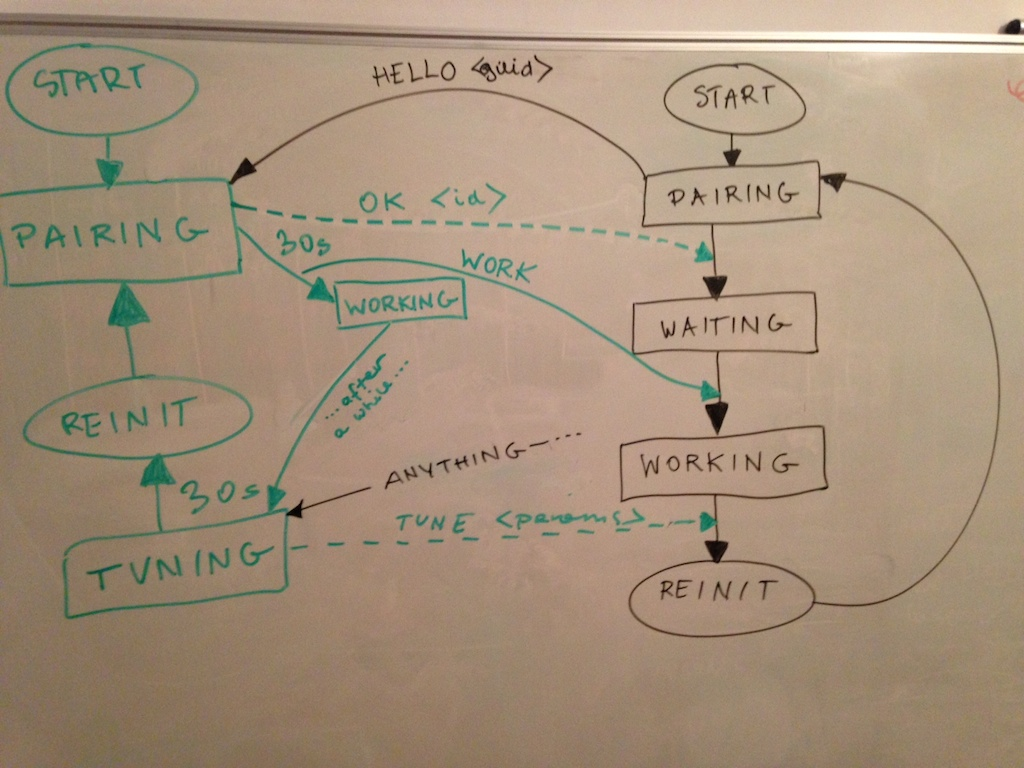
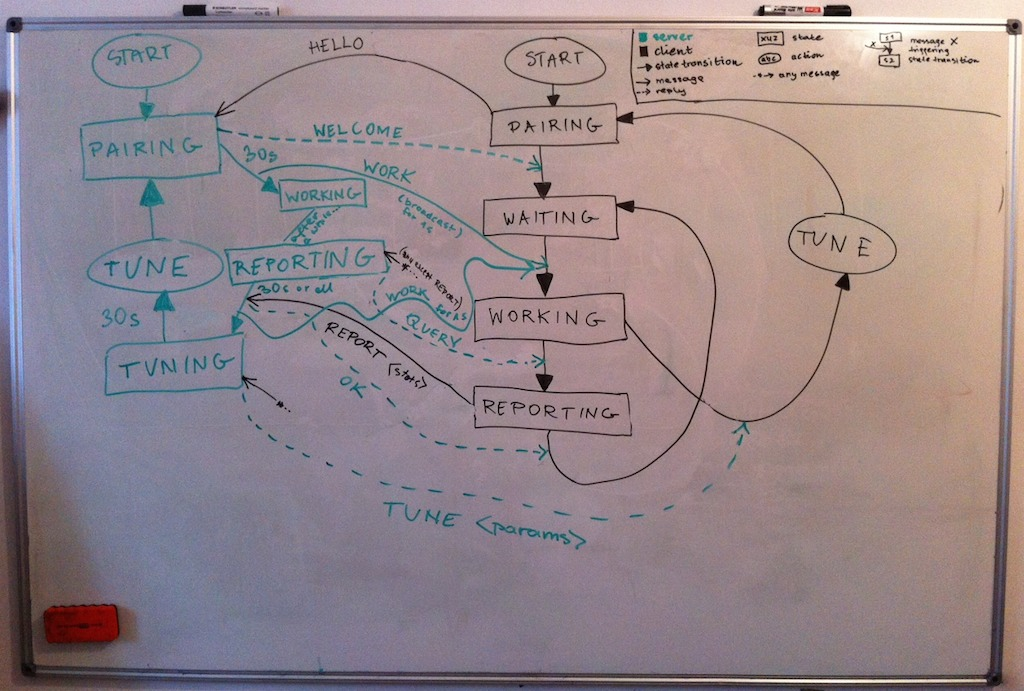
Add headless stats: server queries clients for reports and prints them to serial (comma-separated); address, scenario#, etc.

diff --git a/server/server.cpp b/server/server.cpp
@@ -44,7 +44,8 @@ enum State
 {
   PAIRING,
   TUNING,
-  WORKING
+  WORKING,
+  REPORTING
 };
 
 State theState;
@@ -56,12 +57,16 @@ const unsigned long PAIRING_PERIOD = 10 * 1000;
 unsigned long thePairingStartedAt;
 
 // How long to wait before switching to TUNING state to change the transmission parameters.
-const unsigned long TUNE_AFTER = 60L * 1000L;     
+const unsigned long WORK_PERIOD = 10L * 1000L;     
 unsigned long theWorkingStartAt;
 
 // Milliseconds to wait for devices to tune in before switching to PAIRING state.
 const unsigned long TUNE_FOR = 10L * 1000L;
 unsigned long theTuningStartAt;
+
+// Maximum time to wait for reports from clients.
+const unsigned long MAX_REPORTING_TIME = 30L * 1000L;
+unsigned long theReportingStartAt;
 
 ////////////////////////////////////////////////////////////////////////////////
 
@@ -81,6 +86,22 @@ bool addPairedDevice(uint8_t& address)
   return true;
 }
 
+void broadcast(const Message::Type& type)
+{
+  // The commented out code below sends to each individual device. 
+  // The current one uses broadcasts repeated for approx. 1s.
+  
+  theMessage.type = type;
+  theMessage.repeatedlyBroadcast(manager, 1000);  
+
+  // theMessage.type = Message::WORK;
+  // for (int i = 0; i < thePairedDeviceCount; ++i)
+  // {
+  //   theMessage.sendThrough(manager, thePairedDevices[i]); // TODO: What if it fails due to a temporary eror?
+  //   // No reply is expected.
+  // }
+}
+
 ////////////////////////////////////////////////////////////////////////////////
 
 void startPairing()
@@ -97,21 +118,18 @@ void startWorking()
   Serial.print(thePairedDeviceCount);
   Serial.println(")");
 
-  // The code below sends to each individual device. The current one uses broadcast.
+  broadcast(Message::WORK);
 
-  theMessage.type = Message::WORK;
-
-  theMessage.repeatedlyBroadcast(manager, 1000);
-  
-  // theMessage.type = Message::WORK;
-  // for (int i = 0; i < thePairedDeviceCount; ++i)
-  // {
-  //   theMessage.sendThrough(manager, thePairedDevices[i]); // TODO: What if it fails due to a temporary eror?
-  //   // No reply is expected.
-  // }
   theState = WORKING;
   theWorkingStartAt = millis();
   printStatus("Working...");
+}
+
+void startReporting()
+{
+  theState = REPORTING;
+  theReportingStartAt = millis();
+  printStatus("Reporting...");
 }
 
 void startTuning()
@@ -173,11 +191,11 @@ void onPairing()
 void onWorking()
 {  
   // Reply to PING messages with PONG and with ERROR message to anything else.
-  // After TUNE_AFTER period, switch to TUNING state.
+  // After WORK_PERIOD period, switch to REPORTING state.
   
-  if (millis() - theWorkingStartAt > TUNE_AFTER)
+  if (millis() - theWorkingStartAt > WORK_PERIOD)
   {
-    startTuning();
+    startReporting();
     return;
   }
   
@@ -202,6 +220,71 @@ void onWorking()
   }
 
   maybePrintStatus("Working...");
+}
+
+void handleReport(const Message::Address& from, const Message::Data::Report& report)
+{
+  Message::Data::TuningParams tuningParams;
+  applyCurrentScenario(tuningParams);
+  Serial.print(tuningParams.channel);
+  Serial.print(",");
+  Serial.print(tuningParams.dataRate);
+  Serial.print(",");
+  Serial.print(tuningParams.power);
+  Serial.print(",");
+
+  Serial.print(from);
+  Serial.print(",");
+  Serial.print(report.numTotal);
+  Serial.print(",");
+  Serial.print(report.numSuccess);
+  Serial.print(",");
+  Serial.print(report.numReply);
+  Serial.print(",");
+
+  Serial.print(report.avgPingTime);
+  Serial.print(",");
+  Serial.print(report.minPingTime);
+  Serial.print(",");
+  Serial.print(report.maxPingTime);
+  
+  Serial.println();
+}
+
+// Handle REPORTING state.
+void onReporting()
+{  
+  // Reply to PING messages with PONG and with ERROR message to anything else.
+  // After MAX_REPORTING_TIME period, switch to TUNING state.
+  
+  // TODO: Switch as soon as all paired devices send in their reports.
+  if (millis() - theReportingStartAt > MAX_REPORTING_TIME) 
+  {
+    broadcast(Message::WORK);
+    startTuning();
+    return;
+  }
+  
+  if (manager.available())
+  {
+    Message::Address from;
+    if (theMessage.receiveThrough(manager, &from))
+    {
+      if (Message::REPORT == theMessage.type)
+      {
+        handleReport(from, theMessage.data.report);
+        theMessage.type = Message::OK;
+        theMessage.sendThrough(manager, from);
+      }
+      else
+      {
+        theMessage.type = Message::QUERY;
+        theMessage.sendThrough(manager, from);
+      }
+    }
+  }
+
+  maybePrintStatus("Reporting...");
 }
 
 // Handle TUNING state.
@@ -239,7 +322,7 @@ void onTuning()
     if (theMessage.receiveThrough(manager, &from))
     {
       theMessage.type = Message::TUNE;
-      applyCurrentScenario(theMessage);
+      applyCurrentScenario(theMessage.data.tuningParams);
       theMessage.sendThrough(manager, from);
     }
   }
@@ -281,6 +364,9 @@ void loop()
       break;
     case TUNING:
       onTuning();
+      break;
+    case REPORTING:
+      onReporting();
       break;
     default:
       Serial.print("Error: invalid state (");

diff --git a/client/client.cpp b/client/client.cpp
@@ -76,7 +76,7 @@ void printStats()
 {
   const unsigned long start = Timer.elapsed();
 
-  Serial.println("------------------------------------------------------------------------------==");
+  Serial.println("==========================================================================");
   Serial.print("Total:     ");
   Serial.print(numTotal);
   Serial.print(" ");
@@ -117,13 +117,24 @@ void printStats()
   Serial.println("ms)");
 }
 
+void serializeStats(Message::Data::Report& report)
+{
+  report.numTotal = numTotal;
+  report.numSuccess = numSuccess;
+  report.numReply = numReply;
+  report.avgPingTime = getAvgPingTime();
+  report.minPingTime = minPingTime;
+  report.maxPingTime = maxPingTime;
+}
+
 ////////////////////////////////////////////////////////////////////////////////
 
 enum State
 {
   PAIRING,
   WAITING,
-  WORKING
+  WORKING,
+  REPORTING
 };
 
 State theState;
@@ -150,6 +161,12 @@ void startWorking()
   Timer.restart();
 }
 
+void startReporting()
+{
+  theState = REPORTING;
+  printStatus("Reporting...");
+}
+
 void onPairing()
 {
   theMessage.type = Message::HELLO;
@@ -160,6 +177,7 @@ void onPairing()
   {
     printStatus("Paired.");
     startWaiting();
+    return;
   }
   else
   {
@@ -181,6 +199,7 @@ void onWaiting()
       delay(1000 + random(500)); // [1000, 1500)
       startWorking();
       // Do not reply, nobody is waiting for it.
+      return;
     }
   }
 
@@ -214,11 +233,17 @@ void onWorking()
           Serial.println("ms.");
         }
       }
+      else if (Message::QUERY == theMessage.type)
+      {
+        startReporting();
+        return;
+      }
       else if (Message::TUNE == theMessage.type)
       {
-        printStats();
+        // Duplicated in onReporting().
         tune(theMessage.data.tuningParams, driver, manager);
         startPairing();
+        return;
       }
       else
       {
@@ -236,6 +261,44 @@ void onWorking()
   delay(10 + random(5)); // [10, 15)
 
   maybePrintStatus("Working...");
+}
+
+void onReporting()
+{
+  // FIXME: Client can get stuck here. A timeout?
+  
+  theMessage.type = Message::REPORT;
+  serializeStats(theMessage.data.report);
+  if (theMessage.sendThrough(manager, SERVER_ADDRESS)) 
+  {
+    Message::Address from;
+    if (theMessage.receiveThrough(manager, RECEIVE_TIMEOUT, &from)
+      && from == SERVER_ADDRESS
+      && Message::OK == theMessage.type)
+    {
+      printStatus("Report delivered.");
+      printStats();
+      startWaiting();
+      return;
+    }
+    else if (Message::TUNE == theMessage.type)
+    {
+      // Duplicated in onReporting().
+      tune(theMessage.data.tuningParams, driver, manager);
+      startPairing();
+      return;
+    }
+    else
+    {
+      Serial.print("Error: unexpected type of the received message (");
+      Serial.print(theMessage.type);
+      Serial.println(").");
+    }
+  }
+  
+  delay(50 + random(100)); // [50, 150)
+  
+  maybePrintStatus("Reporting...");
 }
 
 
@@ -273,6 +336,9 @@ void loop()
       break;
     case WORKING:
       onWorking();
+      break;
+    case REPORTING:
+      onReporting();
       break;
     default:
       Serial.print("Error: invalid state (");

diff --git a/include/message.h b/include/message.h
@@ -6,18 +6,22 @@ struct Message
   enum Type
   {
     ERROR = 0,
+    OK,
     HELLO,
     WELCOME,
     WORK,
     PING,
     PONG,
-    TUNE
+    TUNE,
+    QUERY,
+    REPORT
   };
   
   union Data
   {
     unsigned long pingTime;
     unsigned long pongTime;
+
     struct TuningParams
     {
       byte channel;
@@ -26,6 +30,21 @@ struct Message
     };
     
     TuningParams tuningParams; 
+    
+    struct Report
+    {
+      // Important: To preserve space the types below are different from definitions in client.cpp.
+      
+      unsigned long numTotal;                 // Total number of send attempts.
+      unsigned long numSuccess;               // Number of successful sendToWait calls.
+      unsigned long numReply;                 // Number of successful recvfromAckTimeout calls.
+
+      unsigned short avgPingTime;             // Average ping time in ms.
+      unsigned short minPingTime;             // Minimum ping time in ms.
+      unsigned short maxPingTime;             // Maximum ping time in ms.      
+    };
+    
+    Report report;
   };
   
   byte type;

diff --git a/include/tuning.h b/include/tuning.h
@@ -7,14 +7,14 @@ void tune(const Message::Data::TuningParams& p, RH_NRF24& driver, RHDatagram& ma
   driver.setChannel(p.channel);
   driver.setRF((RH_NRF24::DataRate)p.dataRate, (RH_NRF24::TransmitPower) p.power);
 
-  Serial.println("================================================================================");
+  Serial.println("==========================================================================");
   Serial.print("channel = ");
   Serial.print(p.channel);
   Serial.print(" data rate = ");
   Serial.print(p.dataRate);
   Serial.print(" power = ");
   Serial.println(p.power);
-  Serial.println("================================================================================");
+  Serial.println("==========================================================================");
 }
 
 #endif

diff --git a/server/scenarios.h b/server/scenarios.h
@@ -43,9 +43,9 @@ void applyCurrentScenario(RH_NRF24& driver, RHDatagram& manager)
   tune(p, driver, manager);
 }
 
-void applyCurrentScenario(Message& m)
+void applyCurrentScenario(Message::Data::TuningParams& p)
 {
-  (*theScenarios[theCurrentScenario])(m.data.tuningParams);  
+  (*theScenarios[theCurrentScenario])(p);  
 }
 
 void nextScenario()
